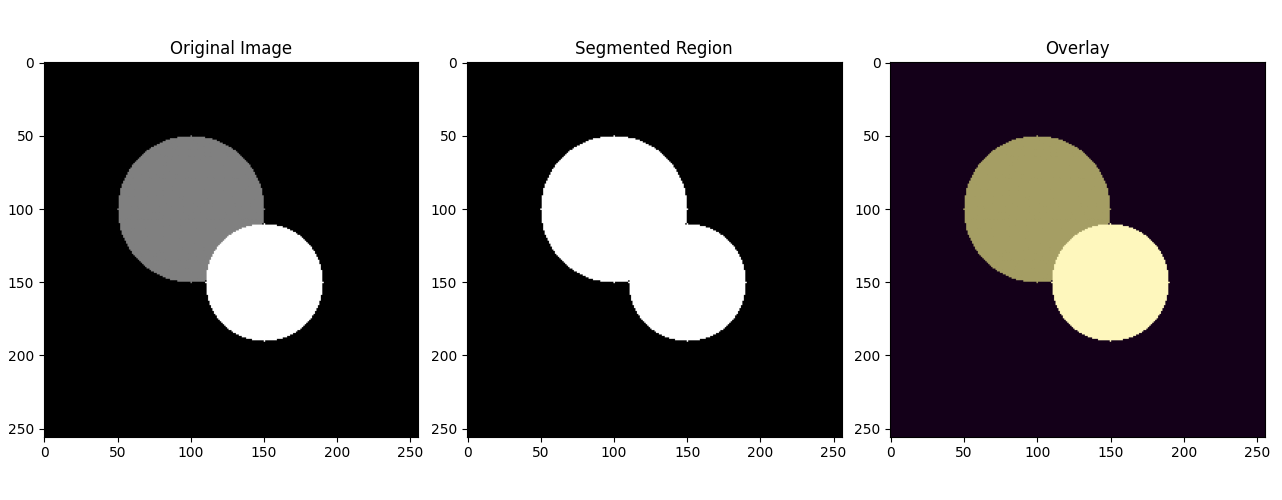
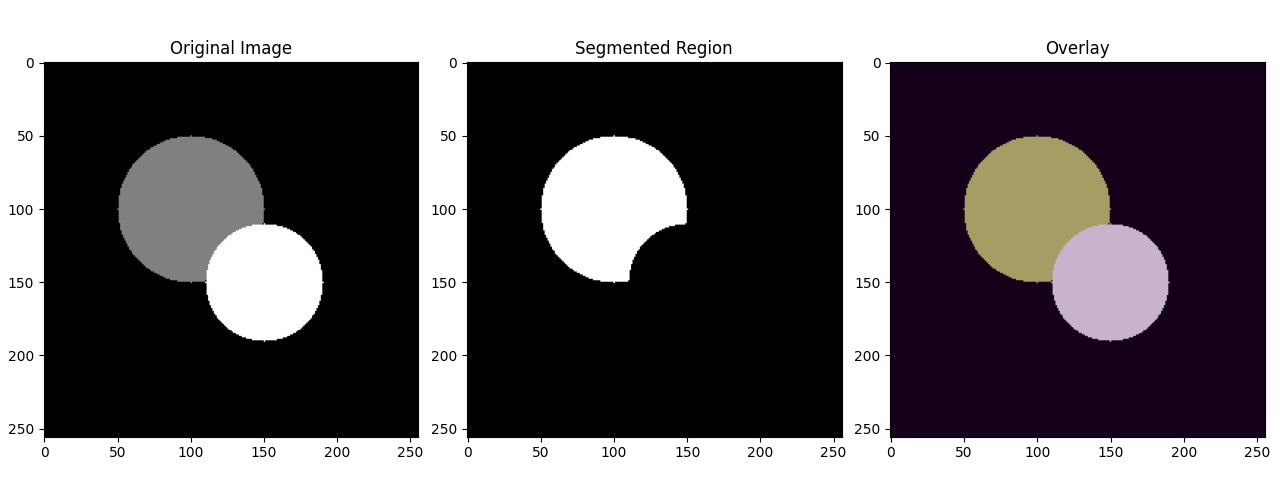
correction

Changed region(s): [[0.468, 0.45, 0.5928, 0.69], [0.8112, 0.45, 0.936, 0.69]]

diff --git a/Task_02.py b/Task_02.py
@@ -1,3 +1,4 @@
+# region_growing_segmentation.py
 import numpy as np
 import cv2
 import matplotlib.pyplot as plt
@@ -48,8 +49,9 @@ def display_results(original, segmented):
     plt.show()
 
 if __name__ == "__main__":
+   
     image = cv2.imread('sample.jpg', cv2.IMREAD_GRAYSCALE) if cv2.imread('sample.jpg') is not None else create_test_image()
-    seeds = [(100, 100), (150, 150)] 
+    seeds = [(100, 100)] 
     threshold = 20
     segmented_region = region_growing(image, seeds, threshold)
     display_results(image, segmented_region)
